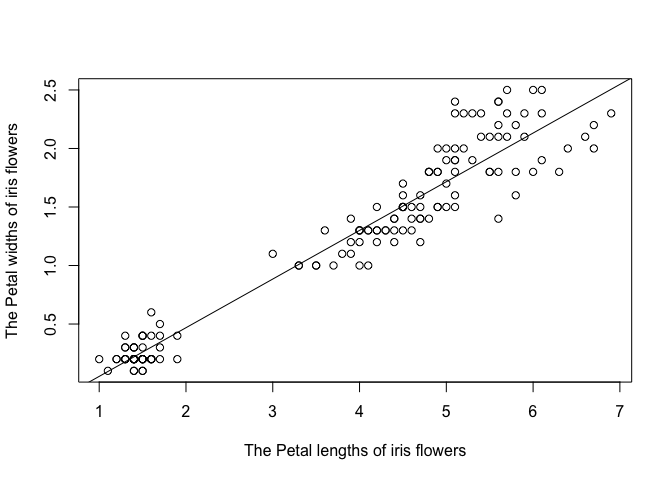
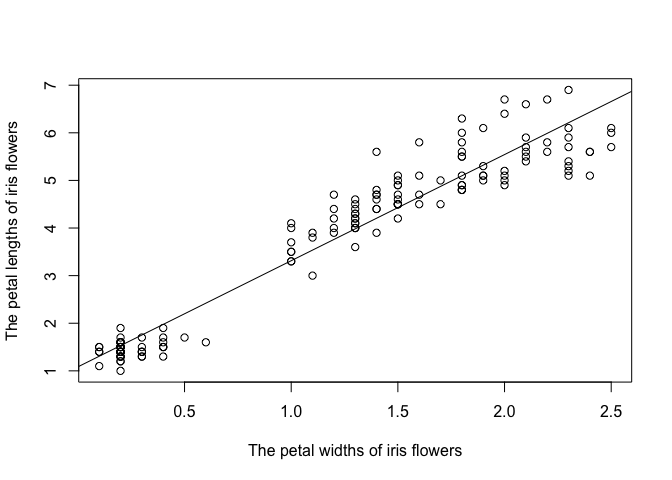
updated README.md

diff --git a/README.md b/README.md
@@ -51,12 +51,12 @@ This is a basic example which shows you how to use the slrmodel package:
 ``` r
 library(slrmodel)
 
-slr_beta(iris$Petal.Length,iris$Petal.Width) #slr_beta(x, y)
-#>         Estimate  Std. Error t statistic      p-value
-#> beta0 -0.3630755 0.039761990   -9.131221 4.699798e-16
-#> beta1  0.4157554 0.009582436   43.387237 4.675004e-86
+slr_beta(iris$Petal.Width,iris$Petal.Length) #slr_beta(x, y)
+#>       Estimate Std. Error t statistic      p-value
+#> beta0 1.083558 0.07296696    14.84998 4.043318e-31
+#> beta1 2.229940 0.05139623    43.38724 4.675004e-86
 
-slr_rsquared(iris$Petal.Length,iris$Petal.Width) #slr_rsquared(x, y)
+slr_rsquared(iris$Petal.Width,iris$Petal.Length) #slr_rsquared(x, y)
 #> [1] 0.9271098
 ```
 
@@ -75,5 +75,5 @@ determination. It tells the proportion of variation in `y` that is
 explained by the ${\hat{y}}={\hat{\beta_0}}+{\hat{\beta_1}}x$ model.
 
 With ${\hat{\beta_0}}$ and ${\hat{\beta_1}}$, we can plot the best
-fitting line, which is ${\hat{y}}=-0.363+0.416x$ in this example:
-<img src="man/figures/README-pressure-1.png" width="100%" />
+fitting line, which is ${\hat{y}}=1.08+2.23x$ in this example:
+<img src="man/figures/README-unnamed-chunk-3-1.png" width="100%" />
